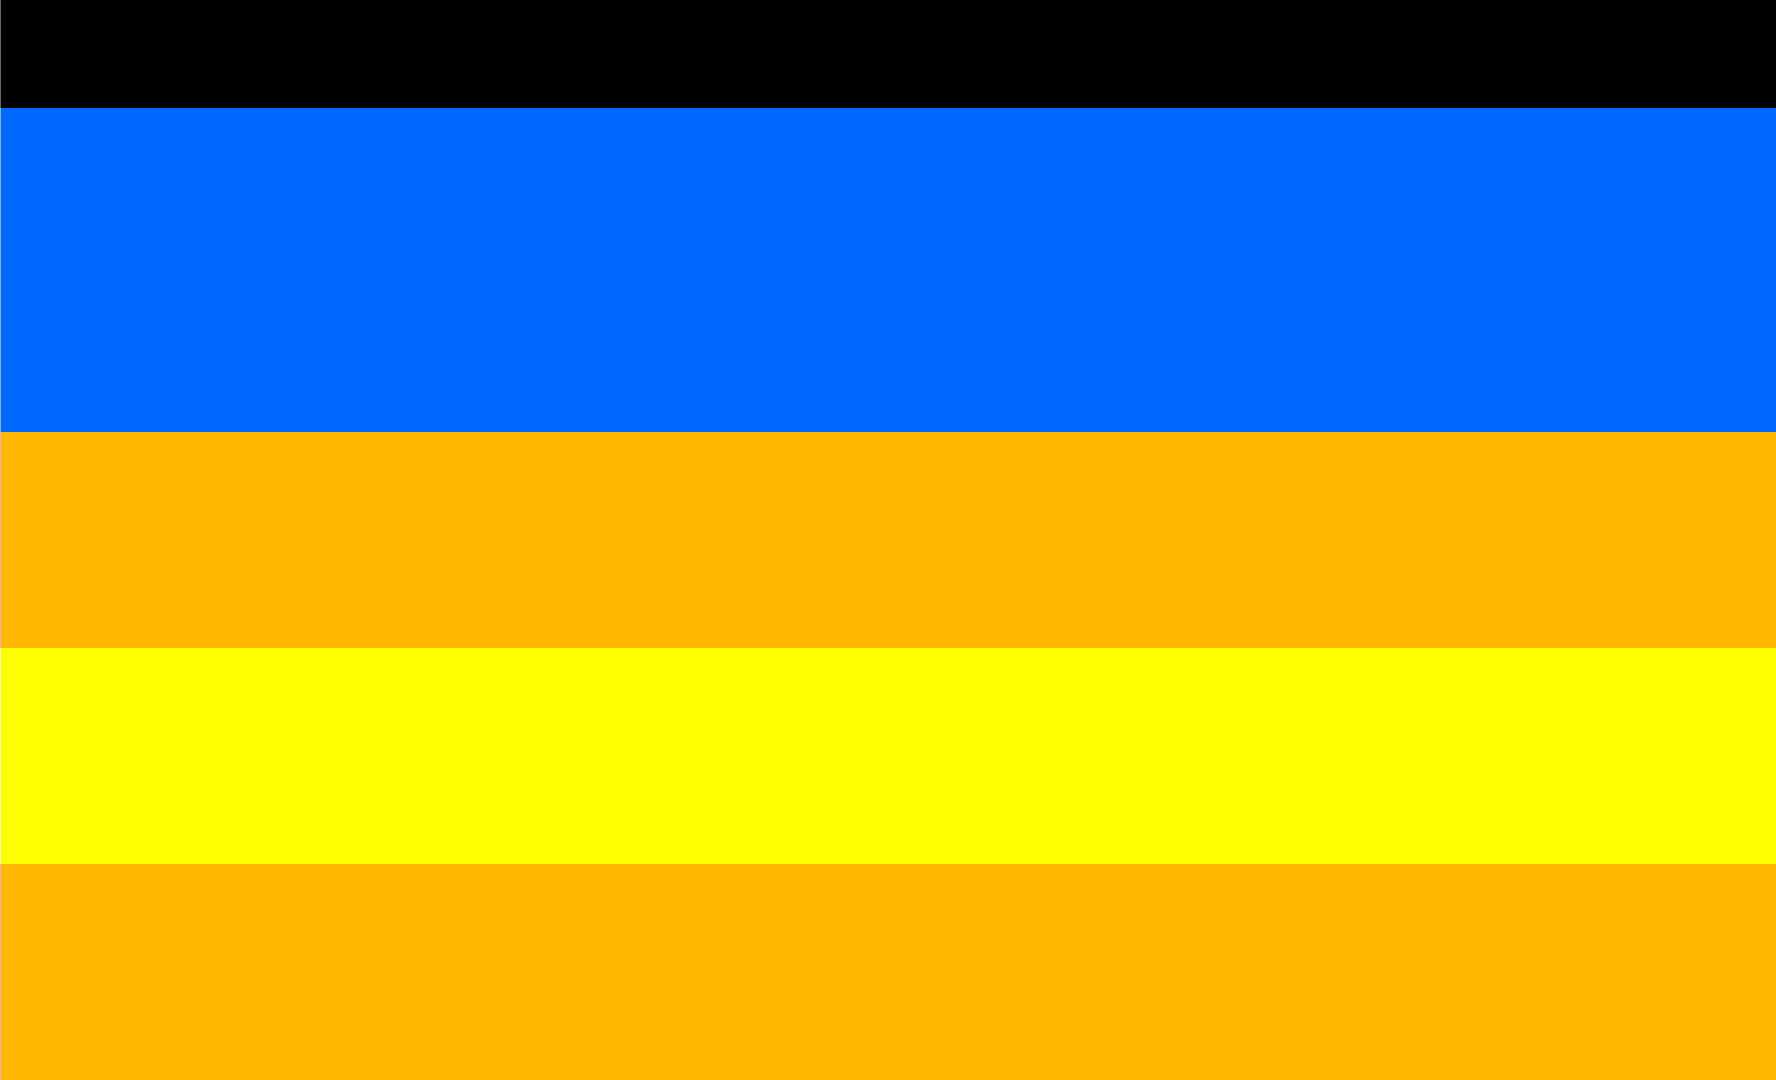
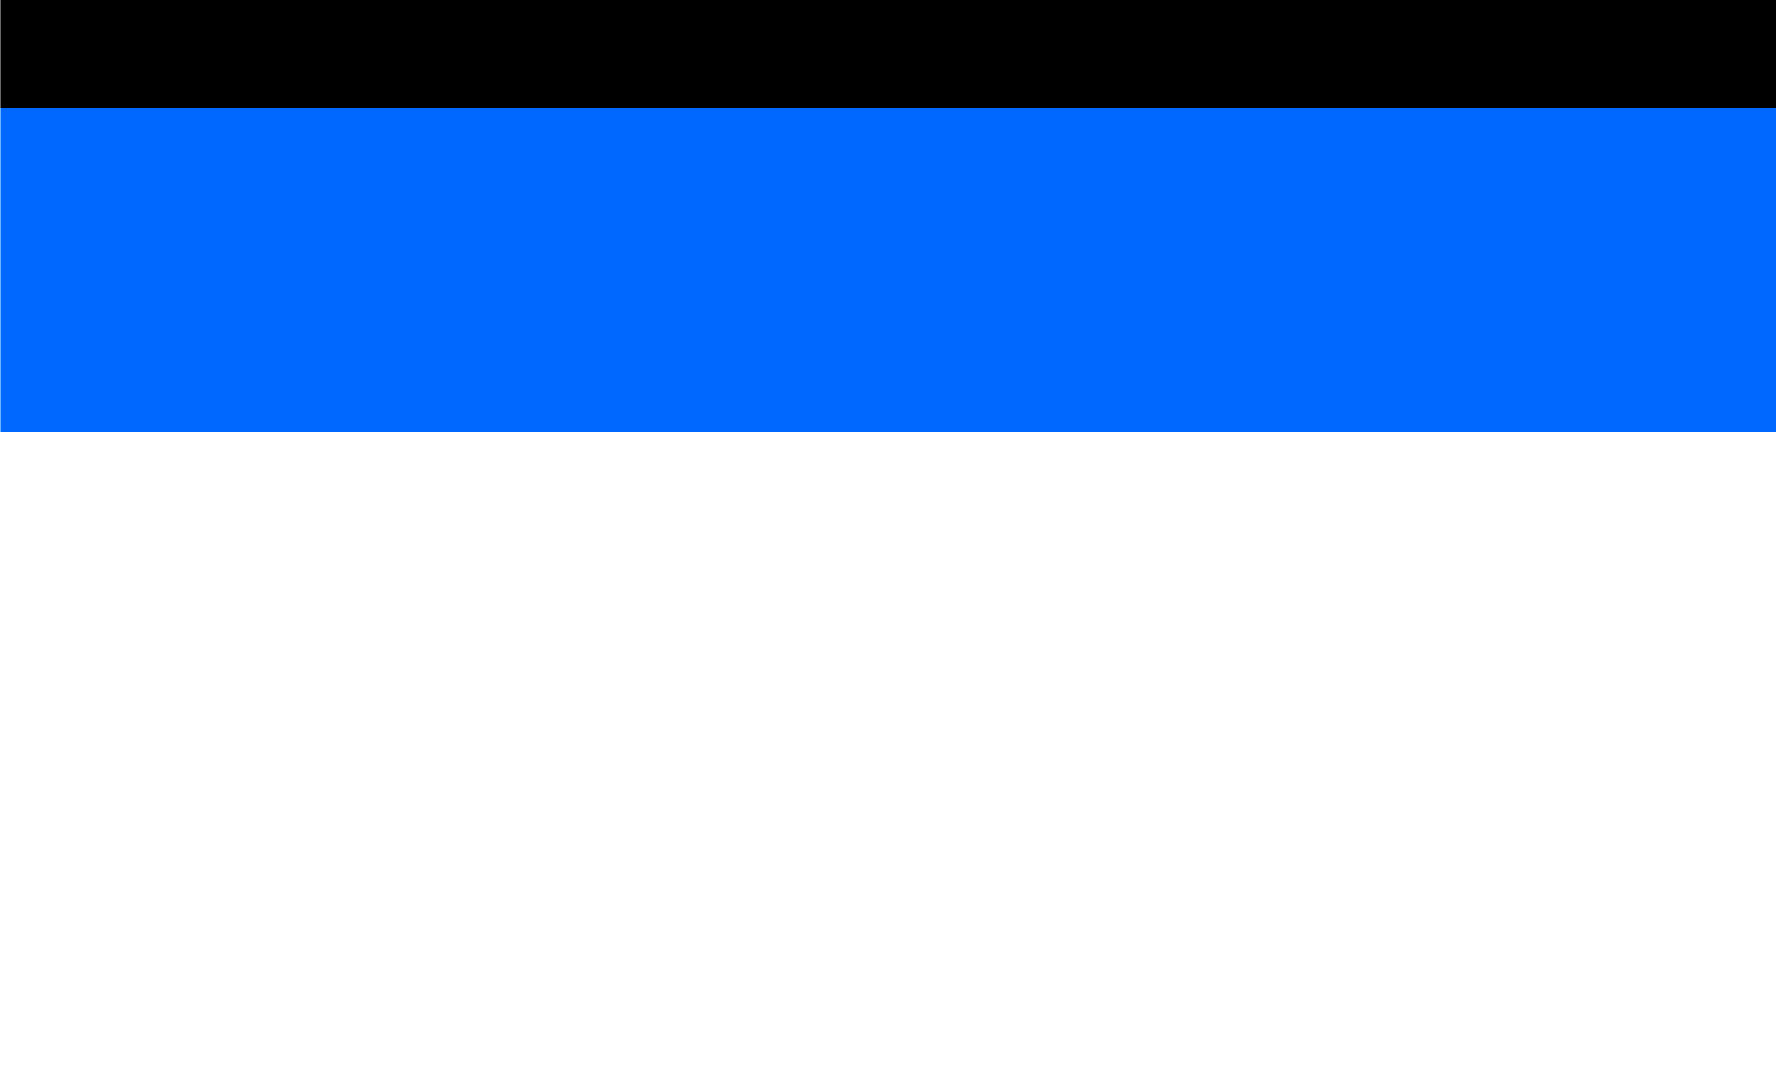
Added the track images into the game. Also added noise to the track image

diff --git a/Classes/HelloWorldScene.cpp b/Classes/HelloWorldScene.cpp
@@ -31,6 +31,12 @@ bool HelloWorld::init()
         return false;
     }
 
+	auto trackNode1 = CSLoader::createNode("Track.csb");
+	addChild(trackNode1);
+	auto trackNode2 = CSLoader::createNode("Track.csb");
+	addChild(trackNode2);
+	auto trackNode3 = CSLoader::createNode("Track.csb");
+	addChild(trackNode3);
 	auto rootNode = CSLoader::createNode("MainMenu.csb");
 	addChild(rootNode);
 	auto creditNode = CSLoader::createNode("CreditScene.csb");
@@ -57,6 +63,14 @@ bool HelloWorld::init()
 	scene = 1;
 
 	// Initialise all images/sprites/buttons/ect...
+	track1 = (Sprite*)trackNode1->getChildByName("Track");
+	track2 = (Sprite*)trackNode2->getChildByName("Track");
+	track3 = (Sprite*)trackNode3->getChildByName("Track");
+
+	track1->setPosition(Vec2(888.0f, 108.0f));
+	track2->setPosition(Vec2(888.0f, track1->getPositionY() + (track1->getPositionY() * 2)));
+	track3->setPosition(Vec2(888.0f, track1->getPositionY() + (track1->getPositionY() * 4)));
+
 	Black_Filter = (Sprite*)rootNode->getChildByName("Black_Filter");
 
 	Start_Button = static_cast<ui::Button*>(rootNode->getChildByName("Start_Button"));

diff --git a/Classes/HelloWorldScene.h b/Classes/HelloWorldScene.h
@@ -19,6 +19,9 @@ private:
 
 	// Backgrounds
 	cocos2d::Image*			Track_Background;	// TEMPLATE BACKGROUND - NEEDS REMOVING	
+	cocos2d::Sprite*		track1;
+	cocos2d::Sprite*		track2;
+	cocos2d::Sprite*		track3;
 
 	// Translucent Colour Blocks
 	cocos2d::Sprite*		Black_Filter;	// 50% Opacity
@@ -31,7 +34,7 @@ private:
 
 	// Classes
 	Player*					player;
-	cocos2d::Sprite*					player_sprite;
+	cocos2d::Sprite*		player_sprite;
 
 	// Touch Events
 	bool touchMoved;
